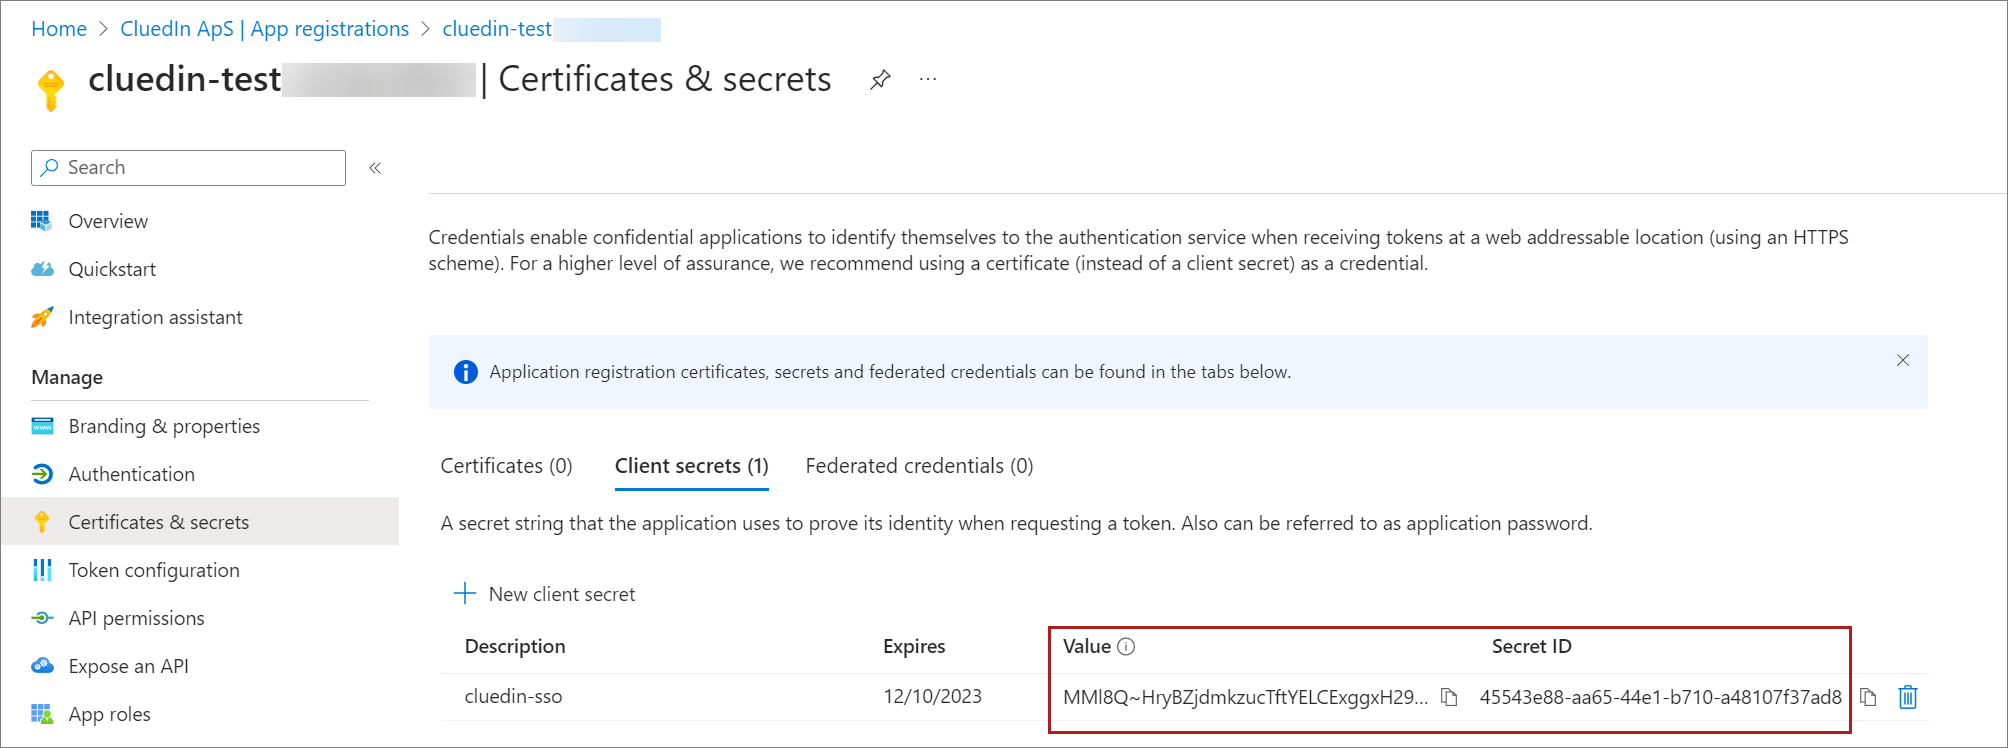
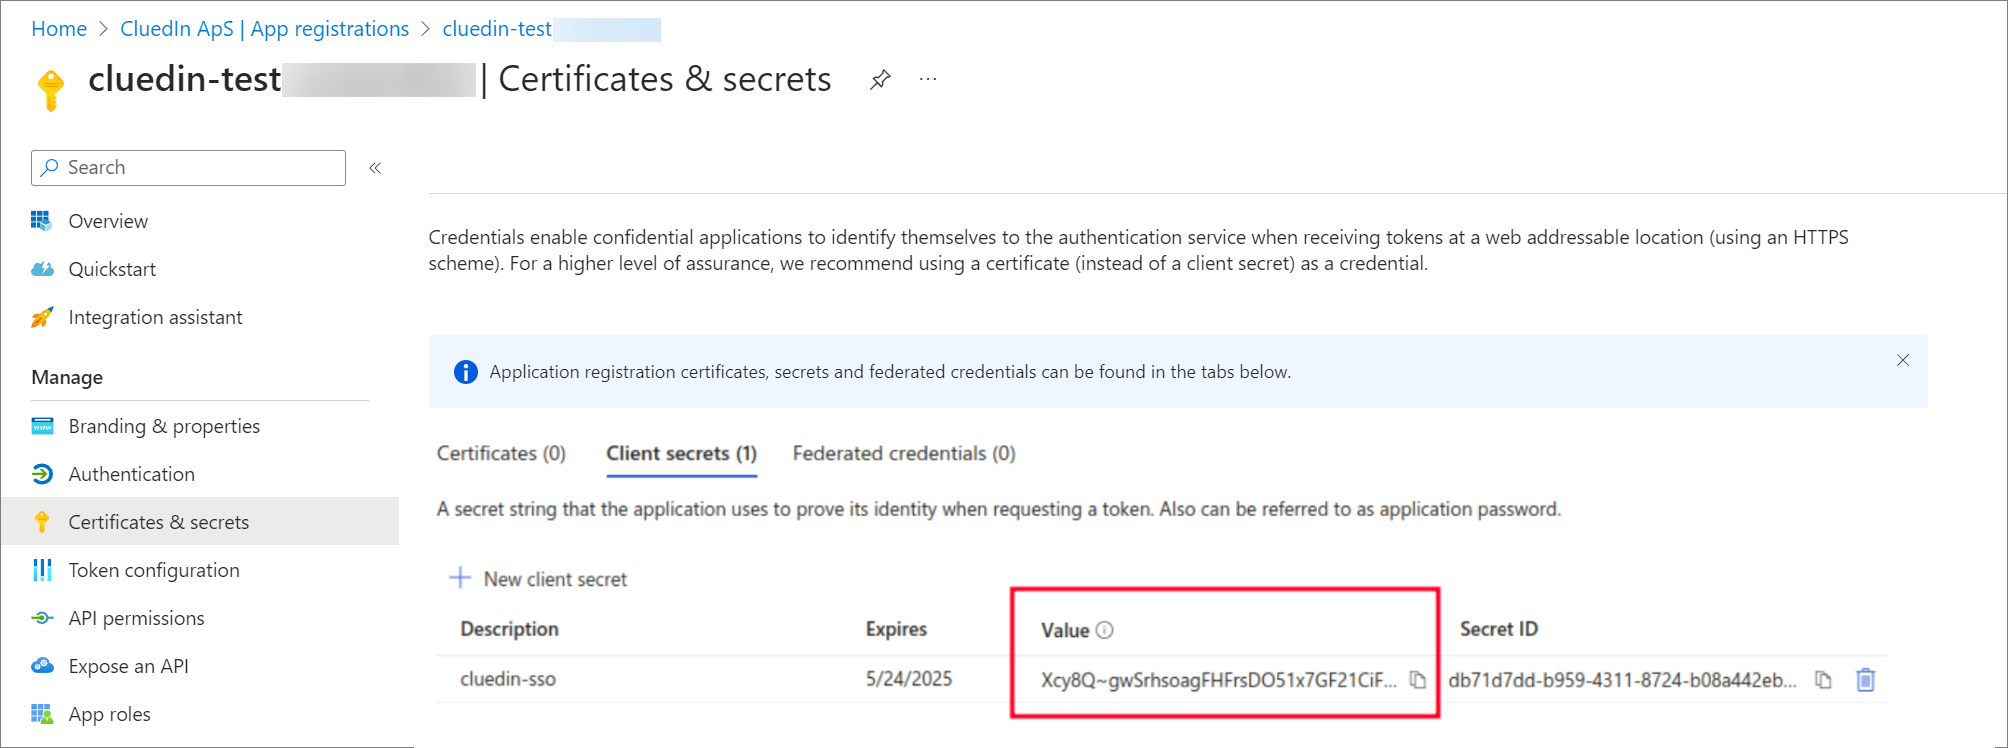
chore: Clarify SSO setup regarding what secret to use

diff --git a/docs/190-paas-operations/configuration/020-setup-sso.md b/docs/190-paas-operations/configuration/020-setup-sso.md
@@ -57,13 +57,14 @@ Throughout the documentation, we'll be working with ficticious domain `yourdomai
 
 1. Select the **Supported account types** that can use the application.
 
-1. Update **Redirect URI** to **Web** and set the URL to the app subdomain of your instance with the path of `/auth/signin-oidc`.  
+1. Update **Redirect URI** to **Web** and set the URL to the app subdomain of your instance with the path of `/auth/signin-oidc`.
+
    e.g. https://app.domain.com/auth/signin-oidc
 
 1. Select **Register**.
 
     When the registration finishes, the Azure portal displays the **Overview** pane of the application registration. Here you can see the **Application (client) ID**. This value uniquely identifies your application. Make note of this ID as you'll need it to [enable SSO via Helm](#create-kubernetes-secret-and-enable-sso-via-helm).
-    
+
     ![Register_application_Application_ID.png](../../assets/images/ama/howtos/configure-sso-3.png)
 
 After you register the application, complete the following steps:
@@ -129,7 +130,7 @@ When enabling single sign-on to your CluedIn application, it is possible to also
 
 1. Select **Save**.
 
-This will allow guests invited to your Microsoft Entra ID to be able to use this application for single sign-on. The process remains the same whereby the user signs in like you normally would. 
+This will allow guests invited to your Microsoft Entra ID to be able to use this application for single sign-on. The process remains the same whereby the user signs in like you normally would.
 
 ### Add API permissions for Microsoft Graph
 
@@ -185,7 +186,7 @@ You need to register a web API with the Microsoft identity platform and expose i
 
 ### Map Microsoft Entra application roles to CluedIn roles
 
-After you have created your application registration and attached it to your CluedIn instance, you can create the application roles on the Microsoft Entra side. These roles will be translated into the CluedIn platform roles and assigned to the users as they sign in to the application when the [Automatic Role Synchronization](#overview-of-sso-for-cluedin) option is enabled in the CluedIn settings. 
+After you have created your application registration and attached it to your CluedIn instance, you can create the application roles on the Microsoft Entra side. These roles will be translated into the CluedIn platform roles and assigned to the users as they sign in to the application when the [Automatic Role Synchronization](#overview-of-sso-for-cluedin) option is enabled in the CluedIn settings.
 
 If you change the role of the user after they sign in, they will need to sign out and sign back in for the new role to take affect.
 
@@ -258,10 +259,10 @@ Once you have connected to your cluster and you are able to issue commands using
 1. Create a new Kubernetes secret with your Azure app registration secret by running the following command:
 
     ```
-    kubectl create secret generic "myorg-sso-cs" -n cluedin --from-literal=clientSecret="1234-5678-9ABC"
+    kubectl create secret generic "myorg-sso-cs" -n cluedin --from-literal=clientSecret="Xcy8Q~....."
     ```
 
-    In the command, replace _1234-5678-9ABC_ with your Azure app registration secret.
+    In the command, replace _Xcy8Q~....._ with your Azure app registration secret.
 
 1. In Azure Cloud Shell, run the following command to create a new empty file:
 
